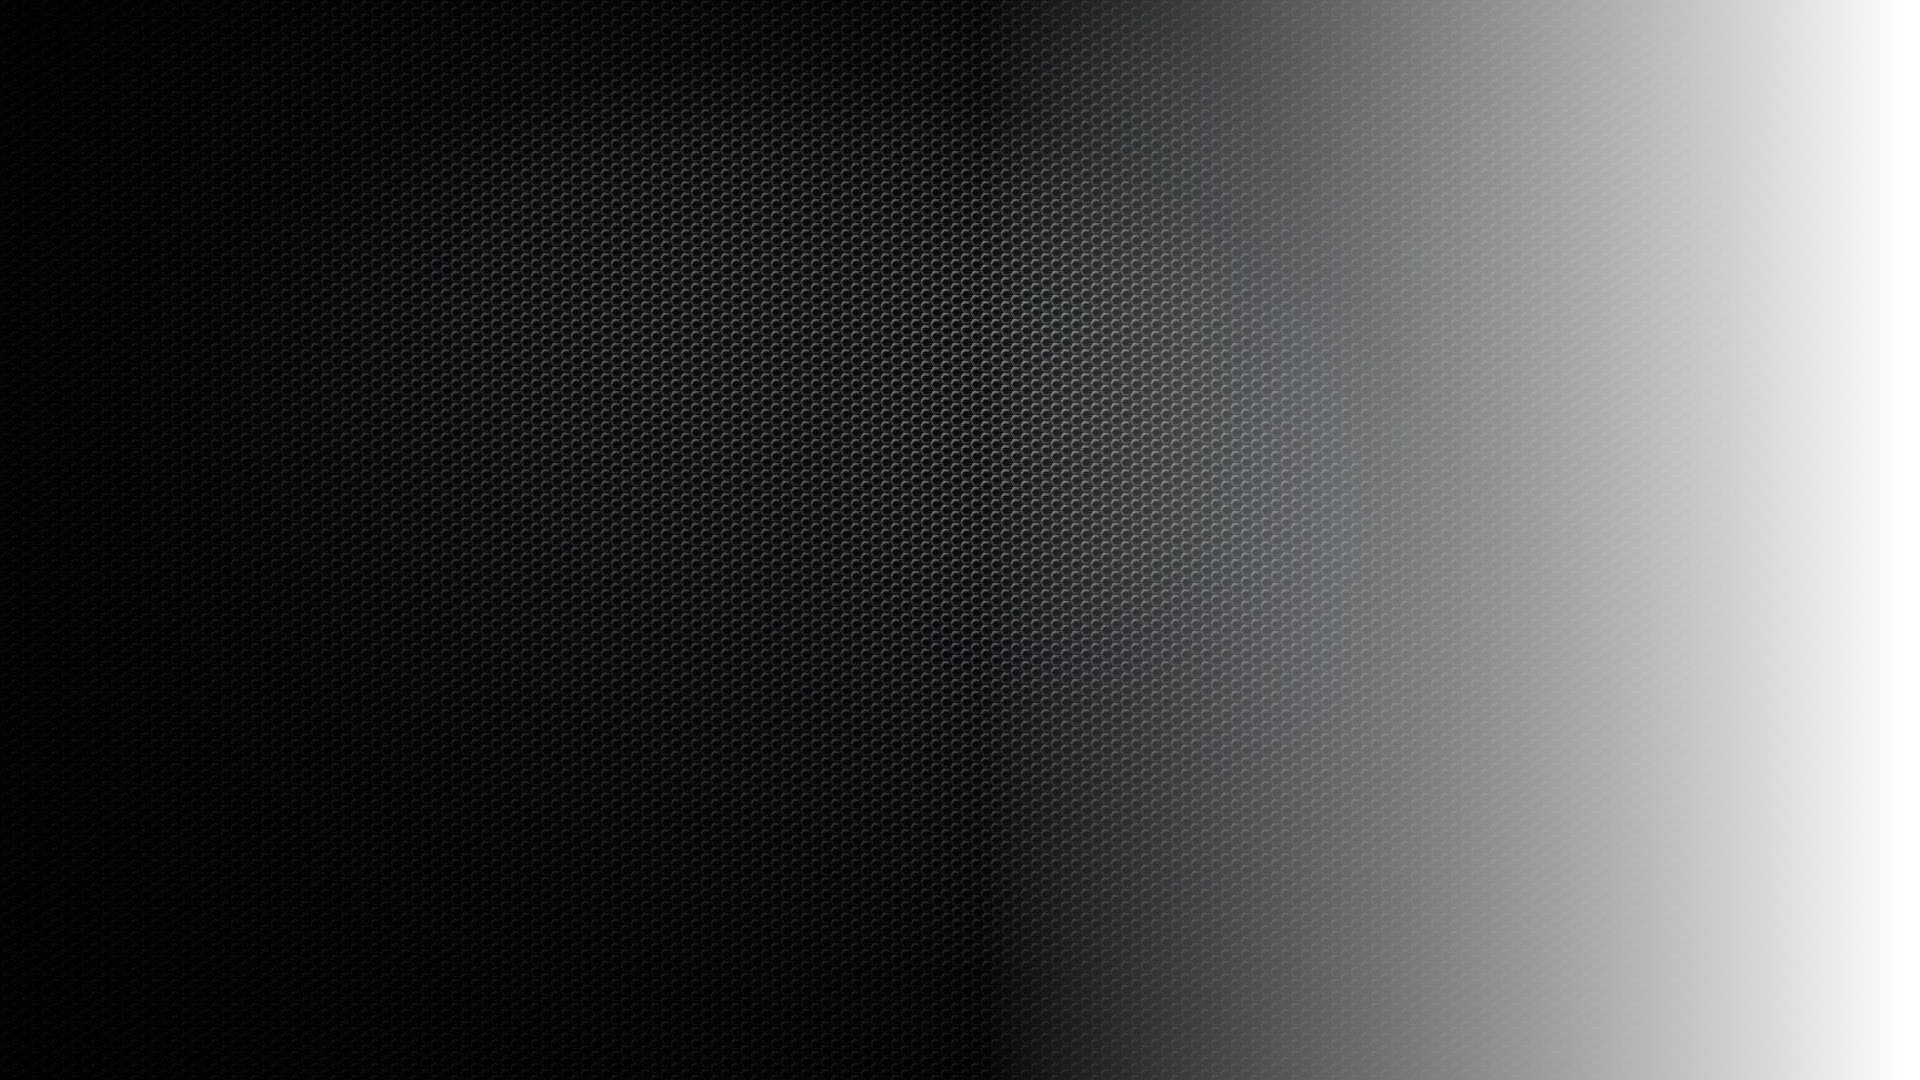
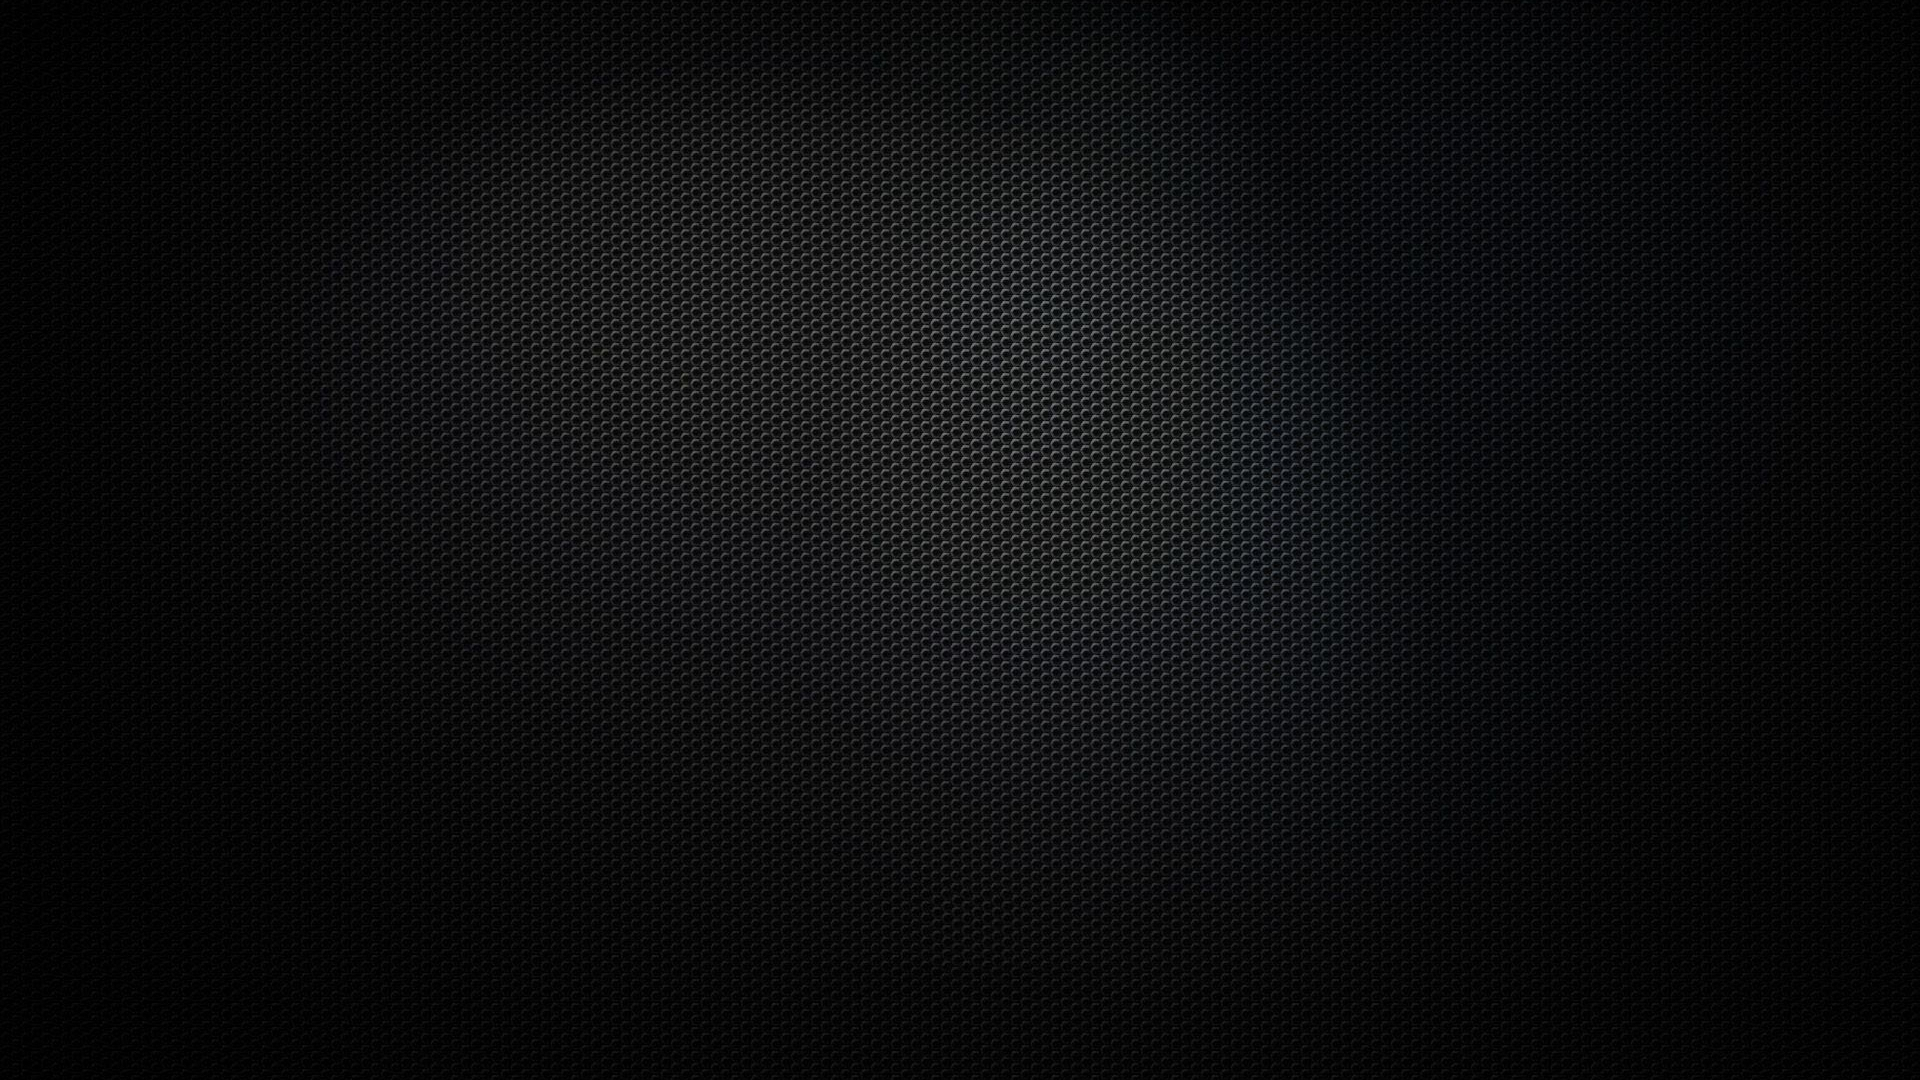
Now playing endpoint

diff --git a/app.js b/app.js
@@ -4,6 +4,7 @@ const fs = require('fs')
 const request = require('request')
 const app = express()
 const port = 3003
+const fade = fs.readFileSync('template-fade.png')
 const bg = fs.readFileSync('template.png')
 
 function download(uri, filename, callback) {
@@ -14,13 +15,13 @@ function download(uri, filename, callback) {
 
 app.use(express.json())
 
-app.post('/', function (req, res) {
+app.post('/convert', function (req, res) {
     const canvas = new Canvas(1920, 720)
 
     download(req.body.url, 'file.png', function () {
         if (req.body.url.includes("youtube.com")) canvas.addImage(fs.readFileSync('file.png'), 600, -125, 1300, 965,)
         else canvas.addImage(fs.readFileSync('file.png'), 960, 0, 1280, 720,)
-        canvas.addImage(bg, 0, 0, 1400, 720)
+        canvas.addImage(fade, 0, 0, 1400, 720)
             .setColor("#FFFFFF")
             .addTextFont('assets/Ubuntu-Regular.ttf', 'Ubuntu')
             .setTextFont('35pt Ubuntu')
@@ -28,22 +29,44 @@ app.post('/', function (req, res) {
             .setTextFont('42pt Ubuntu')
             .addWrappedText(req.body.title, 10, 120, 580)
             .setTextFont('35pt Ubuntu')
-            .addText('Length: ' + calculateLength(req.body.length), 10, 650)
+            .addText('Length: ' + calcLength(req.body.length), 10, 650)
             .addText('Requested by ' + req.body.author, 10, 700, 450)
 
         res.type('png')
         res.send(canvas.toBuffer())
         try {
             fs.unlinkSync('file.png')
-        } catch(err) {
+        } catch (err) {
             console.error('failed to remove file' + err)
         }
     })
 })
 
-function calculateLength(millis) {
-    let minutes = Math.floor(millis / 60000)
-    let seconds = ((millis % 60000) / 1000).toFixed(0)
+app.post('/np', function (req, res) {
+    const canvas = new Canvas(1920, 720)
+        .addImage(bg, 0, 0, 1920, 720)
+        .setColor("white")
+        .addTextFont('assets/Ubuntu-Regular.ttf', 'Ubuntu')
+        .setTextFont('55pt Ubuntu')
+        .setTextAlign("center")
+        .addWrappedText(req.body.title, 960, 300, 1850)
+        .beginPath()
+        .setColor('red')
+        .addRect(210, 500, calcSongProgress(req.body.position, req.body.duration), 100)
+
+    res.type('png')
+    res.send(canvas.toBuffer())
+})
+
+function calcSongProgress(position, duration) {
+    let width = 1500
+    let percent = duration / position
+    return width / percent
+}
+
+function calcLength(length) {
+    let minutes = Math.floor(length / 60000)
+    let seconds = ((length % 60000) / 1000).toFixed(0)
     return minutes + ":" + (seconds < 10 ? '0' : '') + seconds
 }
 
